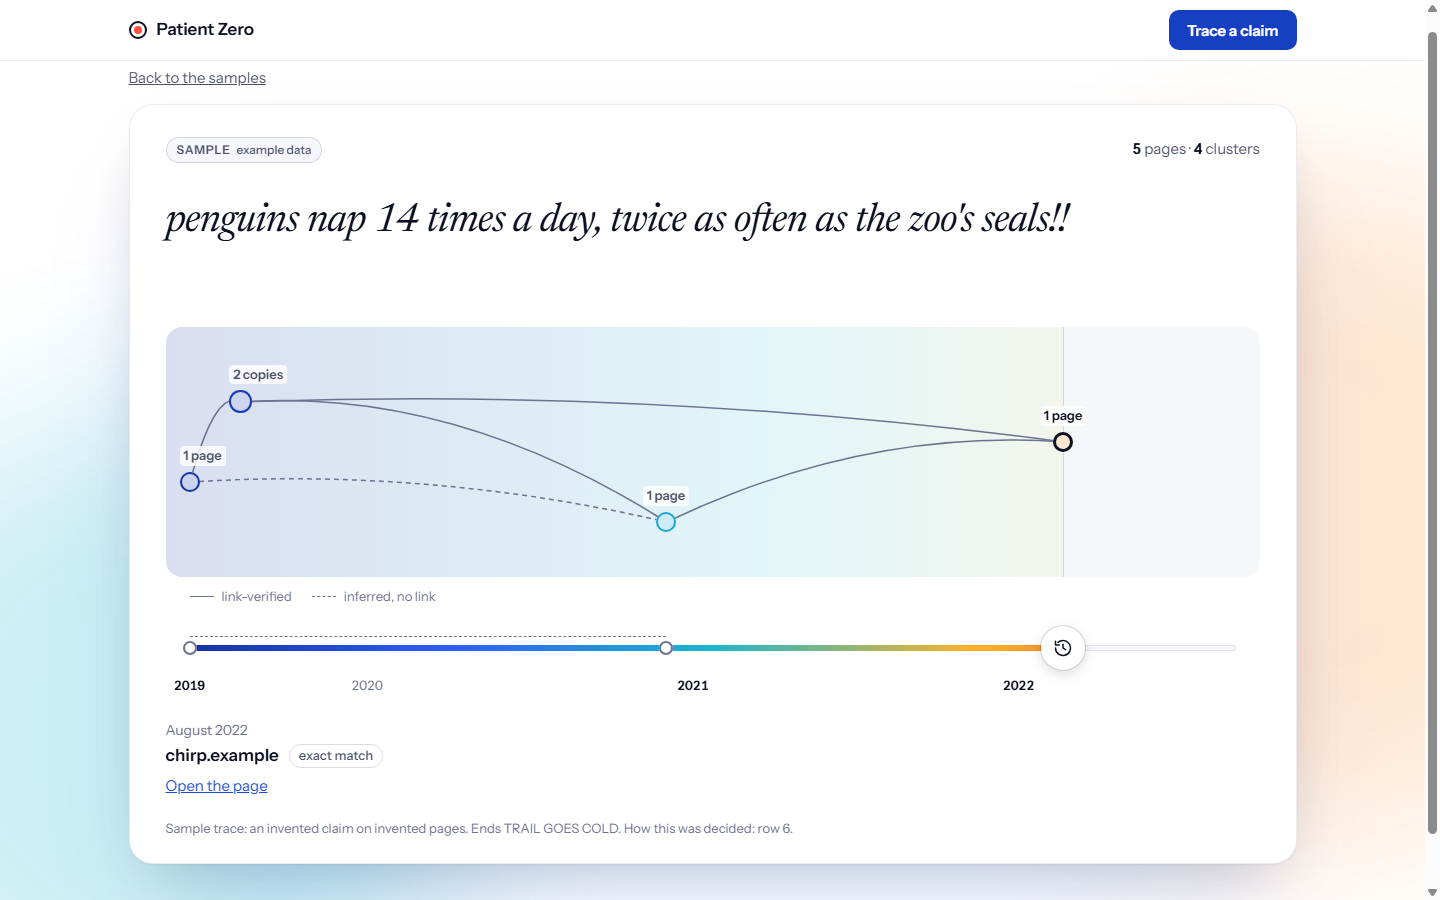
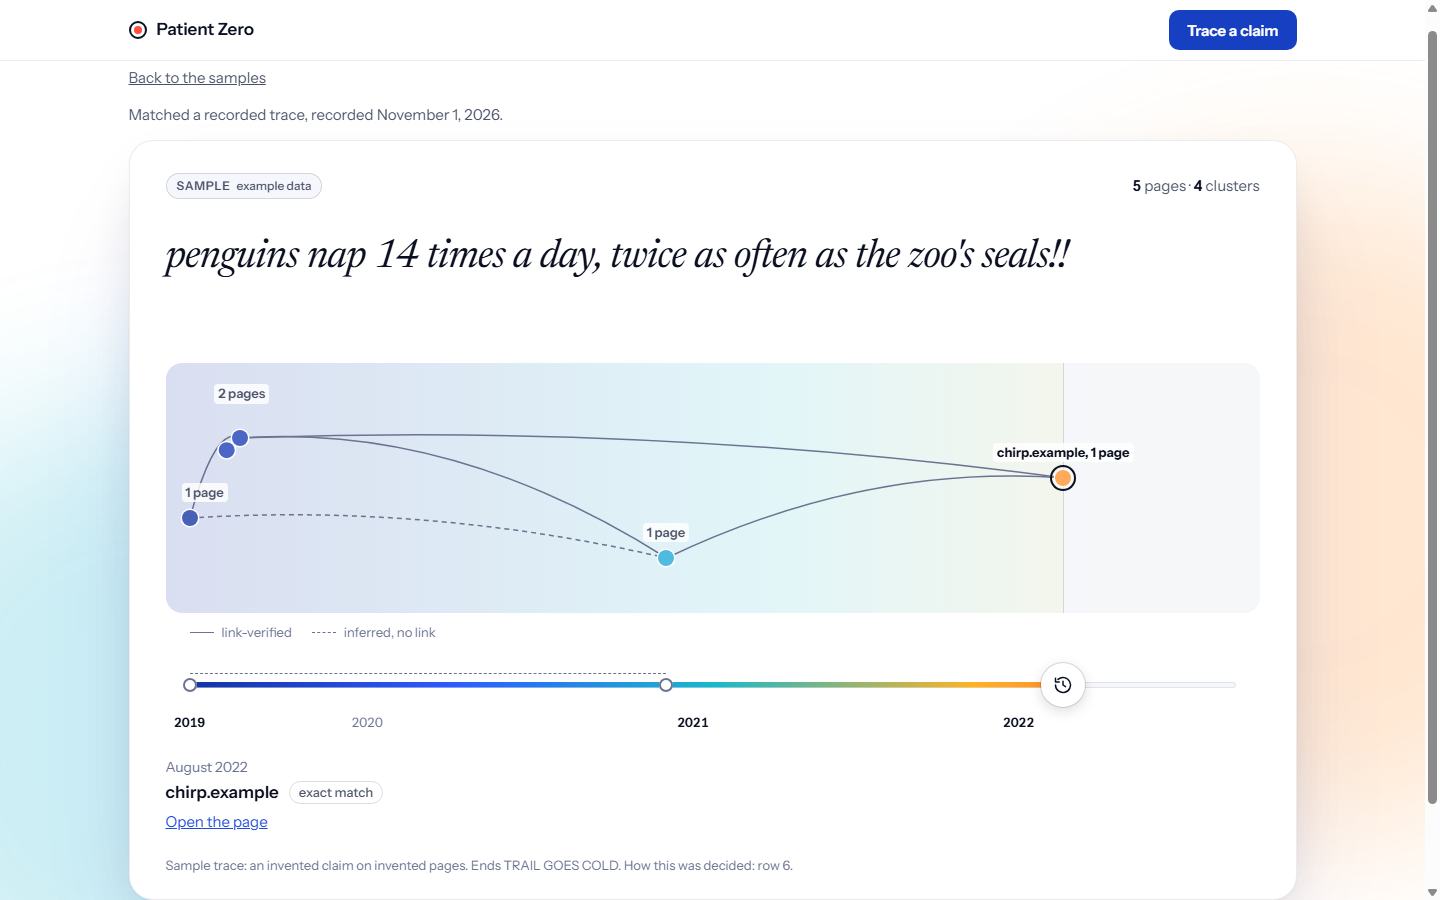
Match claims two-way with numbers, units, multipliers and negations exact; say when a recorded trace was matched

diff --git a/apps/web/src/model/claimMatch.ts b/apps/web/src/model/claimMatch.ts
@@ -1,48 +1,94 @@
 import type { Trace } from "pz/schema";
 import { sampleRows } from "./sampleRow.ts";
 
-const words = (text: string) =>
-  text
+// Words that carry no claim of their own. Negations, multipliers, number words and units are never here: they are
+// what make two claims different.
+const STOP = new Set(
+  "a an the of to in on at by for from with and or but as is are was were be been being it its this that these those than then so says said say according do does did has have had which who whom whose there their they them we our you your he she his her i my me about into over".split(" "),
+);
+const NUMBER_WORDS: Record<string, string> = {
+  zero: "0", one: "1", two: "2", three: "3", four: "4", five: "5", six: "6", seven: "7", eight: "8", nine: "9", ten: "10",
+  eleven: "11", twelve: "12", thirteen: "13", fourteen: "14", fifteen: "15", sixteen: "16", seventeen: "17", eighteen: "18",
+  nineteen: "19", twenty: "20", thirty: "30", forty: "40", fifty: "50", sixty: "60", seventy: "70", eighty: "80", ninety: "90",
+  hundred: "100", thousand: "1000", million: "1000000", billion: "1000000000", dozen: "12",
+};
+const MULTIPLIERS = new Set(["once", "twice", "thrice", "double", "doubled", "triple", "tripled", "quadruple", "half", "halved", "third", "quarter"]);
+const NEGATIONS = new Set(["not", "no", "never", "none", "nor", "without", "cannot", "dont", "doesnt", "didnt", "isnt", "arent", "wasnt", "werent", "wont"]);
+const UNITS: Record<string, string> = {
+  second: "second", seconds: "second", minute: "minute", minutes: "minute", hour: "hour", hours: "hour", hourly: "hour",
+  day: "day", days: "day", daily: "day", week: "week", weeks: "week", weekly: "week", month: "month", months: "month",
+  monthly: "month", year: "year", years: "year", yearly: "year", annually: "year", decade: "decade", decades: "decade",
+  percent: "%", "%": "%", per: "per", cent: "cent",
+};
+
+type Parsed = { content: string[]; numbers: string; multipliers: string; negations: string; units: string };
+
+function parse(text: string): Parsed {
+  const tokens = text
     .toLowerCase()
     .replace(/[‘’]/g, "'")
+    .replace(/(\d)\s*%/g, "$1 %")
+    .replace(/n't\b/g, "nt")
     .split(/[^\p{L}\p{N}%.']+/u)
-    .map((w) => w.replace(/^[.']+|[.']+$/g, ""))
-    .filter(Boolean);
-const numbers = (ws: string[]) => ws.filter((w) => /\d/.test(w)).sort().join(" ");
-
-// Share of the shorter text's words that the other text also has.
-function overlap(a: string[], b: string[]): number {
-  const [small, big] = a.length <= b.length ? [a, b] : [b, a];
-  const pool = new Set(big);
-  return small.length === 0 ? 0 : small.filter((w) => pool.has(w)).length / small.length;
+    .map((w) => w.replace(/^[.']+|[.']+$/g, "").replace(/'s$/, ""))
+    .filter(Boolean)
+    .map((w) => NUMBER_WORDS[w] ?? w.replace(/,/g, ""));
+  const content = tokens.filter((w) => !STOP.has(w));
+  const pick = (keep: (w: string) => boolean, as: (w: string) => string = (w) => w) => content.filter(keep).map(as).sort().join(" ");
+  return {
+    content,
+    numbers: pick((w) => /\d/.test(w)),
+    multipliers: pick((w) => MULTIPLIERS.has(w)),
+    negations: pick((w) => NEGATIONS.has(w), () => "not"),
+    units: pick((w) => w in UNITS && UNITS[w] !== "per" && UNITS[w] !== "cent", (w) => UNITS[w]!),
+  };
 }
 
-// Words a pasted claim must share with a recorded wording, beyond carrying the same numbers.
-export const MATCH_SHARE = 0.75;
+const share = (from: string[], into: string[]) => {
+  const pool = new Set(into);
+  return from.length === 0 ? 0 : from.filter((w) => pool.has(w)).length / from.length;
+};
+const twoWay = (a: string[], b: string[]) => Math.min(share(a, b), share(b, a));
+// The words before the claim's first number (its subject and verb) and the words after it.
+const sides = (ws: string[]) => {
+  const at = ws.findIndex((w) => /\d/.test(w));
+  return [ws.slice(0, at), ws.slice(at + 1)] as const;
+};
+
+// Two-way: each text's content words must be found in the other. The words before the first number and the words
+// after it are also checked apart, which keeps who does what ("seals nap ... than penguins" is not "penguins nap ...
+// than seals") while allowing "Penguins at Harbor Zoo nap". Numbers, multipliers, negations and units match exactly.
+export const WORD_SHARE = 0.9;
+export const SIDE_SHARE = 0.8;
 const MIN_WORDS = 4;
 
-// The recorded trace for a typed or pasted claim: one whose claim, or the wording on one of its pages, has the same
-// numbers and most of the same words. Prefers the trace with the most to show. Null when nothing matches, so the
-// page says the claim is not traced yet instead of opening the wrong trace.
+export function sameClaimText(a: Parsed, b: Parsed): boolean {
+  if (a.numbers !== b.numbers || a.multipliers !== b.multipliers || a.negations !== b.negations || a.units !== b.units) return false;
+  if (twoWay(a.content, b.content) < WORD_SHARE) return false;
+  const [[headA, tailA], [headB, tailB]] = [sides(a.content), sides(b.content)];
+  const sideOk = (x: string[], y: string[]) => (x.length === 0 && y.length === 0) || twoWay(x, y) >= SIDE_SHARE;
+  return sideOk(headA, headB) && sideOk(tailA, tailB);
+}
+
+// The recorded trace for a typed or pasted claim: one whose claim, or the wording on one of its pages, states the same
+// thing (see sameClaimText). Prefers the trace with the most to show. Null when nothing matches, so the page says the
+// claim is not traced yet instead of opening the wrong trace.
 export function findTrace(text: string, traces: Trace[]): Trace | null {
-  const asked = words(text);
-  if (asked.length < MIN_WORDS || !asked.some((w) => /\d/.test(w))) return null;
-  const match = (wording: string) => {
-    const ws = words(wording);
-    return numbers(ws) === numbers(asked) && overlap(asked, ws) >= MATCH_SHARE;
-  };
+  const asked = parse(text);
+  if (asked.content.length < MIN_WORDS || asked.numbers === "") return null;
   for (const row of sampleRows(traces)) {
     const trace = traces.find((t) => t.id === row.id)!;
-    if ([trace.claim.text, trace.viralSentence, ...trace.spans.map((s) => s.text)].some(match)) return trace;
+    if ([trace.claim.text, trace.viralSentence, ...trace.spans.map((s) => s.text)].some((w) => sameClaimText(asked, parse(w)))) return trace;
   }
   return null;
 }
 
-// Why the box would not look: too short to be a claim, or no number in it.
+// Why the box would not look: no number in it, or too short to be a claim.
 export function claimProblem(text: string): string | null {
-  const ws = words(text);
-  if (ws.length === 0) return null;
-  if (!ws.some((w) => /\d/.test(w))) return "Patient Zero traces claims with a number in them. Add the number as you saw it.";
-  if (ws.length < MIN_WORDS) return "Paste the whole sentence the number came in.";
+  const parsed = parse(text);
+  const words = text.trim().split(/\s+/).filter(Boolean);
+  if (words.length === 0) return null;
+  if (parsed.numbers === "") return "Patient Zero traces claims with a number in them. Add the number as you saw it.";
+  if (words.length < MIN_WORDS) return "Paste the whole sentence the number came in.";
   return null;
 }

diff --git a/apps/web/src/model/claimMatch.test.ts b/apps/web/src/model/claimMatch.test.ts
@@ -4,23 +4,37 @@ import { lintText } from "../../../../packages/pz/src/cli/lint-copy.ts";
 import { claimProblem, findTrace } from "./claimMatch.ts";
 
 const { traces } = loadTraces();
+const CLAIM = "Harbor Zoo penguins nap 14 times a day, twice as often as the zoo's seals";
 
 describe("findTrace", () => {
   it("opens the recorded trace for its own claim, whatever the case, quotes or punctuation", () => {
-    expect(findTrace("Harbor Zoo penguins nap 14 times a day, twice as often as the zoo's seals", traces)?.id).toBe("sample-rich");
+    expect(findTrace(CLAIM, traces)?.id).toBe("sample-rich");
     expect(findTrace("  “harbor zoo PENGUINS nap 14 times a day twice as often as the zoo’s seals!!” ", traces)?.id).toBe("sample-rich");
+    expect(findTrace("Harbor Zoo penguins nap fourteen times a day, twice as often as the zoo's seals.", traces)?.id).toBe("sample-rich");
+    expect(findTrace("Penguins at Harbor Zoo nap 14 times a day, twice as often as the zoo's seals", traces)?.id).toBe("sample-rich");
   });
 
   it("matches the wording a page used, not only the claim as asked", () => {
     expect(findTrace("Penguins nap 14 times a day, twice as often as seals, says a marine study.", traces)).not.toBeNull();
   });
 
-  it("never opens a trace for a different number or a different claim", () => {
-    expect(findTrace("Harbor Zoo penguins nap 41 times a day, twice as often as the zoo's seals", traces)?.id).not.toBe("sample-rich");
-    expect(findTrace("Harbor Zoo penguins nap 15 times a day, twice as often as the zoo's seals", traces)).toBeNull();
-    expect(findTrace("The average human attention span is 8 seconds, shorter than a goldfish's 9 seconds.", traces)).toBeNull();
-    expect(findTrace("", traces)).toBeNull();
-    expect(findTrace("penguins 14", traces)).toBeNull();
+  // XO's probes on #184: each of these opened sample-rich before.
+  it.each([
+    ["another verb", "Zoo penguins eat 14 times a day"],
+    ["one changed verb in the full sentence", "Harbor Zoo penguins eat 14 times a day, twice as often as the zoo's seals"],
+    ["another unit", "Harbor Zoo penguins nap 14 times a week, twice as often as the zoo's seals"],
+    ["another multiplier", "Harbor Zoo penguins nap 14 times a day, three times as often as the zoo's seals"],
+    ["half, not twice", "Harbor Zoo penguins nap 14 times a day, half as often as the zoo's seals"],
+    ["a negation", "Harbor Zoo penguins do not nap 14 times a day, twice as often as the zoo's seals"],
+    ["subject and object swapped", "Harbor Zoo seals nap 14 times a day, twice as often as the zoo's penguins"],
+    ["another number", "Harbor Zoo penguins nap 41 times a day, twice as often as the zoo's seals"],
+    ["a near number", "Harbor Zoo penguins nap 15 times a day, twice as often as the zoo's seals"],
+    ["a percent", "Harbor Zoo penguins nap 14 percent of the day, twice as often as the zoo's seals"],
+    ["another claim", "The average human attention span is 8 seconds, shorter than a goldfish's 9 seconds."],
+    ["a fragment", "penguins 14"],
+    ["nothing", ""],
+  ])("never opens a trace for %s", (_, text) => {
+    expect(findTrace(text, traces)).toBeNull();
   });
 });
 
@@ -30,6 +44,7 @@ describe("claimProblem", () => {
     expect(claimProblem("penguins nap a lot")).toMatch(/number/);
     expect(claimProblem("14 naps")).toMatch(/whole sentence/);
     expect(claimProblem("Penguins nap 14 times a day")).toBeNull();
+    expect(claimProblem("Penguins nap fourteen times a day")).toBeNull();
     for (const s of ["penguins nap a lot", "14 naps"]) expect(lintText(claimProblem(s)!)).toEqual([]);
   });
 });

diff --git a/apps/web/src/components/ClaimBox.tsx b/apps/web/src/components/ClaimBox.tsx
@@ -2,14 +2,16 @@ import { useEffect, useRef, useState, type FormEvent } from "react";
 import type { Trace } from "pz/schema";
 import { claimProblem, findTrace } from "../model/claimMatch.ts";
 
-type Outcome = { kind: "idle" } | { kind: "problem"; text: string } | { kind: "untraced"; claim: string };
+// try counts submits, so a repeated answer is a new node and screen readers announce it again.
+type Outcome = { kind: "idle" } | { kind: "problem"; text: string; try: number } | { kind: "untraced"; claim: string; try: number };
 
 // The claim box. A claim that matches a recorded trace opens it; anything else gets a calm answer, never a guess.
 // focusKey changes when the nav's "Trace a claim" is pressed, and the box takes focus.
-export function ClaimBox({ traces, focusKey }: { traces: Trace[]; focusKey: number }) {
+export function ClaimBox({ traces, focusKey, onMatch }: { traces: Trace[]; focusKey: number; onMatch(id: string): void }) {
   const input = useRef<HTMLTextAreaElement>(null);
   const [text, setText] = useState("");
   const [outcome, setOutcome] = useState<Outcome>({ kind: "idle" });
+  const tries = useRef(0);
 
   useEffect(() => {
     if (focusKey === 0) return;
@@ -22,10 +24,13 @@ export function ClaimBox({ traces, focusKey }: { traces: Trace[]; focusKey: numb
     const claim = text.trim();
     if (!claim) return input.current?.focus();
     const problem = claimProblem(claim);
-    if (problem) return setOutcome({ kind: "problem", text: problem });
+    tries.current += 1;
+    if (problem) return setOutcome({ kind: "problem", text: problem, try: tries.current });
     const trace = findTrace(claim, traces);
-    if (trace) window.location.hash = `#/t/${encodeURIComponent(trace.id)}`;
-    else setOutcome({ kind: "untraced", claim });
+    if (trace) {
+      onMatch(trace.id);
+      window.location.hash = `#/t/${encodeURIComponent(trace.id)}`;
+    } else setOutcome({ kind: "untraced", claim, try: tries.current });
   };
 
   return (
@@ -45,7 +50,8 @@ export function ClaimBox({ traces, focusKey }: { traces: Trace[]; focusKey: numb
             if (outcome.kind !== "idle") setOutcome({ kind: "idle" });
           }}
           onKeyDown={(e) => {
-            if (e.key === "Enter" && !e.shiftKey) submit(e);
+            // Enter while an input method is composing picks a character; it is not a submit.
+            if (e.key === "Enter" && !e.shiftKey && !e.nativeEvent.isComposing) submit(e);
           }}
         />
         <button className="btn claim-go" type="submit">
@@ -54,9 +60,13 @@ export function ClaimBox({ traces, focusKey }: { traces: Trace[]; focusKey: numb
       </div>
       <div id="claim-note" className="claim-note" aria-live="polite">
         {outcome.kind === "idle" && <p className="meta">Paste the sentence the number came in. Recorded traces open straight away.</p>}
-        {outcome.kind === "problem" && <p className="claim-problem">{outcome.text}</p>}
+        {outcome.kind === "problem" && (
+          <p key={outcome.try} className="claim-problem">
+            {outcome.text}
+          </p>
+        )}
         {outcome.kind === "untraced" && (
-          <div className="untraced">
+          <div key={outcome.try} className="untraced">
             <p className="untraced-title">Not traced yet</p>
             <p>
               No recorded trace has this claim. Traces are recorded one claim at a time from the command line, and every

diff --git a/apps/web/src/App.tsx b/apps/web/src/App.tsx
@@ -37,12 +37,12 @@ function Hero() {
   );
 }
 
-function Start({ focusKey }: { focusKey: number }) {
+function Start({ focusKey, onMatch }: { focusKey: number; onMatch(id: string): void }) {
   return (
     <main className="wrap section stack">
       <Hero />
       <p className="lead">Patient Zero walks a claim back through time to the earliest page it can find, and shows every step.</p>
-      <ClaimBox traces={traces} focusKey={focusKey} />
+      <ClaimBox traces={traces} focusKey={focusKey} onMatch={onMatch} />
       <section aria-labelledby="samples-heading">
         <div className="samples-head">
           <h2 id="samples-heading">Samples</h2>
@@ -81,11 +81,19 @@ function Start({ focusKey }: { focusKey: number }) {
   );
 }
 
-function TraceRoute({ id }: { id: string }) {
+const recordedOn = new Intl.DateTimeFormat("en-US", { month: "long", day: "numeric", year: "numeric", timeZone: "UTC" });
+
+// matched: the claim box opened this trace for a pasted claim, so the page says it is a recording, not a fresh trace.
+function TraceRoute({ id, matched }: { id: string; matched: boolean }) {
   const trace = traces.find((t) => t.id === id);
   return (
     <main className="wrap trace-page">
       <a className="back" href="#/">Back to the samples</a>
+      {trace && matched && (
+        <p className="matched" role="status">
+          Matched a recorded trace, recorded {recordedOn.format(new Date(trace.recordedAt))}.
+        </p>
+      )}
       {trace ? <TraceView trace={trace} /> : <p className="error" role="alert">No trace called {id}.</p>}
     </main>
   );
@@ -94,8 +102,15 @@ function TraceRoute({ id }: { id: string }) {
 export function App() {
   const route = useRoute();
   const [focusKey, setFocusKey] = useState(0);
-  // "Trace a claim" goes to the start page and puts the cursor in the claim box.
+  const [matchedId, setMatchedId] = useState<string | null>(null);
+  // The note belongs to the arrival only: leaving the trace clears it.
+  useEffect(() => {
+    if (route.name !== "trace" || route.id !== matchedId) setMatchedId(null);
+  }, [route]);
+  // "Trace a claim" goes to the start page and puts the cursor in the claim box. A modified or middle click is left
+  // to the browser (a new tab or window).
   const traceAClaim = (e: MouseEvent<HTMLAnchorElement>) => {
+    if (e.metaKey || e.ctrlKey || e.shiftKey || e.altKey || e.button !== 0) return;
     e.preventDefault();
     if (route.name !== "start") window.location.hash = "#/";
     setFocusKey((k) => k + 1);
@@ -113,7 +128,11 @@ export function App() {
           </a>
         </div>
       </nav>
-      {route.name === "trace" ? <TraceRoute id={route.id} /> : <Start focusKey={focusKey} />}
+      {route.name === "trace" ? (
+        <TraceRoute id={route.id} matched={route.id === matchedId} />
+      ) : (
+        <Start focusKey={focusKey} onMatch={setMatchedId} />
+      )}
     </>
   );
 }

diff --git a/apps/web/src/data/loadTraces.test.ts b/apps/web/src/data/loadTraces.test.ts
@@ -12,6 +12,12 @@ describe("loadTraces", () => {
     ]);
   });
 
+  it("reads recorded traces from traces/ and traces/gallery/ beside the samples, and sorts real traces first", () => {
+    const real = { ...loadTraces().traces[0]!, id: "live-x", synthetic: false };
+    const { traces } = parseTraces({ "/f/fixtures/traces/sample-a.json": { ...real, id: "sample-a", synthetic: true }, "/f/traces/gallery/live-x.json": real });
+    expect(traces.map((t) => t.id)).toEqual(["live-x", "sample-a"]);
+  });
+
   it("a file that fails the schema becomes a plain error, not a trace", () => {
     const { traces, errors } = parseTraces({ "/x/broken.json": { id: "broken" } });
     expect(traces).toEqual([]);
@@ -37,7 +43,7 @@ describe("ModeBadge", () => {
     expect(badgeFor(replay)).toEqual({ label: "REPLAY", note: "recorded Nov 2, 2026" });
   });
 
-  it("[C14] a real LIVE trace reads LIVE", () => {
-    expect(badgeFor({ ...sample, synthetic: false, mode: "LIVE" }).label).toBe("LIVE");
+  it("[C14] a real LIVE trace reads LIVE, with the date it was recorded, since the web only shows recordings", () => {
+    expect(badgeFor({ ...sample, synthetic: false, mode: "LIVE", recordedAt: "2026-11-17T21:05:00Z" })).toEqual({ label: "LIVE", note: "recorded Nov 17, 2026" });
   });
 });

diff --git a/apps/web/src/data/loadTraces.ts b/apps/web/src/data/loadTraces.ts
@@ -12,11 +12,16 @@ export function parseTraces(modules: Record<string, unknown>): Loaded {
     if (parsed.success) traces.push(parsed.data);
     else errors.push({ file, message: `${file} does not match the trace format, so it is not shown.` });
   }
-  traces.sort((a, b) => a.id.localeCompare(b.id));
+  // Real recordings first, then the invented samples; by id within each.
+  traces.sort((a, b) => Number(a.synthetic) - Number(b.synthetic) || a.id.localeCompare(b.id));
   return { traces, errors };
 }
 
-// Synthetic fixtures for now; real REPLAY traces join this list in T32.
+// The invented samples, plus every recorded real trace in traces/ and traces/gallery/ (XO on #184: fixtures/ stays
+// synthetic). A missing folder simply adds nothing.
 export function loadTraces(): Loaded {
-  return parseTraces(import.meta.glob("../../../../fixtures/traces/*.json", { eager: true, import: "default" }));
+  return parseTraces({
+    ...import.meta.glob("../../../../fixtures/traces/*.json", { eager: true, import: "default" }),
+    ...import.meta.glob(["../../../../traces/*.json", "../../../../traces/gallery/*.json"], { eager: true, import: "default" }),
+  });
 }

diff --git a/apps/web/src/components/badge.ts b/apps/web/src/components/badge.ts
@@ -4,10 +4,11 @@ export type Badge = { label: "SAMPLE" | "REPLAY" | "LIVE"; note: string | null }
 
 const recorded = new Intl.DateTimeFormat("en-US", { month: "short", day: "numeric", year: "numeric", timeZone: "UTC" });
 
-// Synthetic data is always SAMPLE, whatever its mode field says.
+// Synthetic data is always SAMPLE, whatever its mode field says. The web only ever shows traces read from disk, so a
+// LIVE trace here is a recording of a live run and says when it was recorded (XO on #184).
 export function badgeFor(trace: Trace): Badge {
   if (trace.synthetic) return { label: "SAMPLE", note: "example data" };
   if (trace.mode === "REPLAY") return { label: "REPLAY", note: `recorded ${recorded.format(new Date(trace.recordedAt))}` };
-  if (trace.mode === "LIVE") return { label: "LIVE", note: null };
+  if (trace.mode === "LIVE") return { label: "LIVE", note: `recorded ${recorded.format(new Date(trace.recordedAt))}` };
   return { label: "SAMPLE", note: "example data" };
 }

diff --git a/apps/web/src/styles/tokens.css b/apps/web/src/styles/tokens.css
@@ -534,3 +534,10 @@ a {
     padding: 0 18px;
   }
 }
+
+/* Arriving from the claim box: the trace is a recording, said once above the stage. */
+.matched {
+  margin: 0 0 14px;
+  color: var(--ink-2);
+  font-size: 15px;
+}
